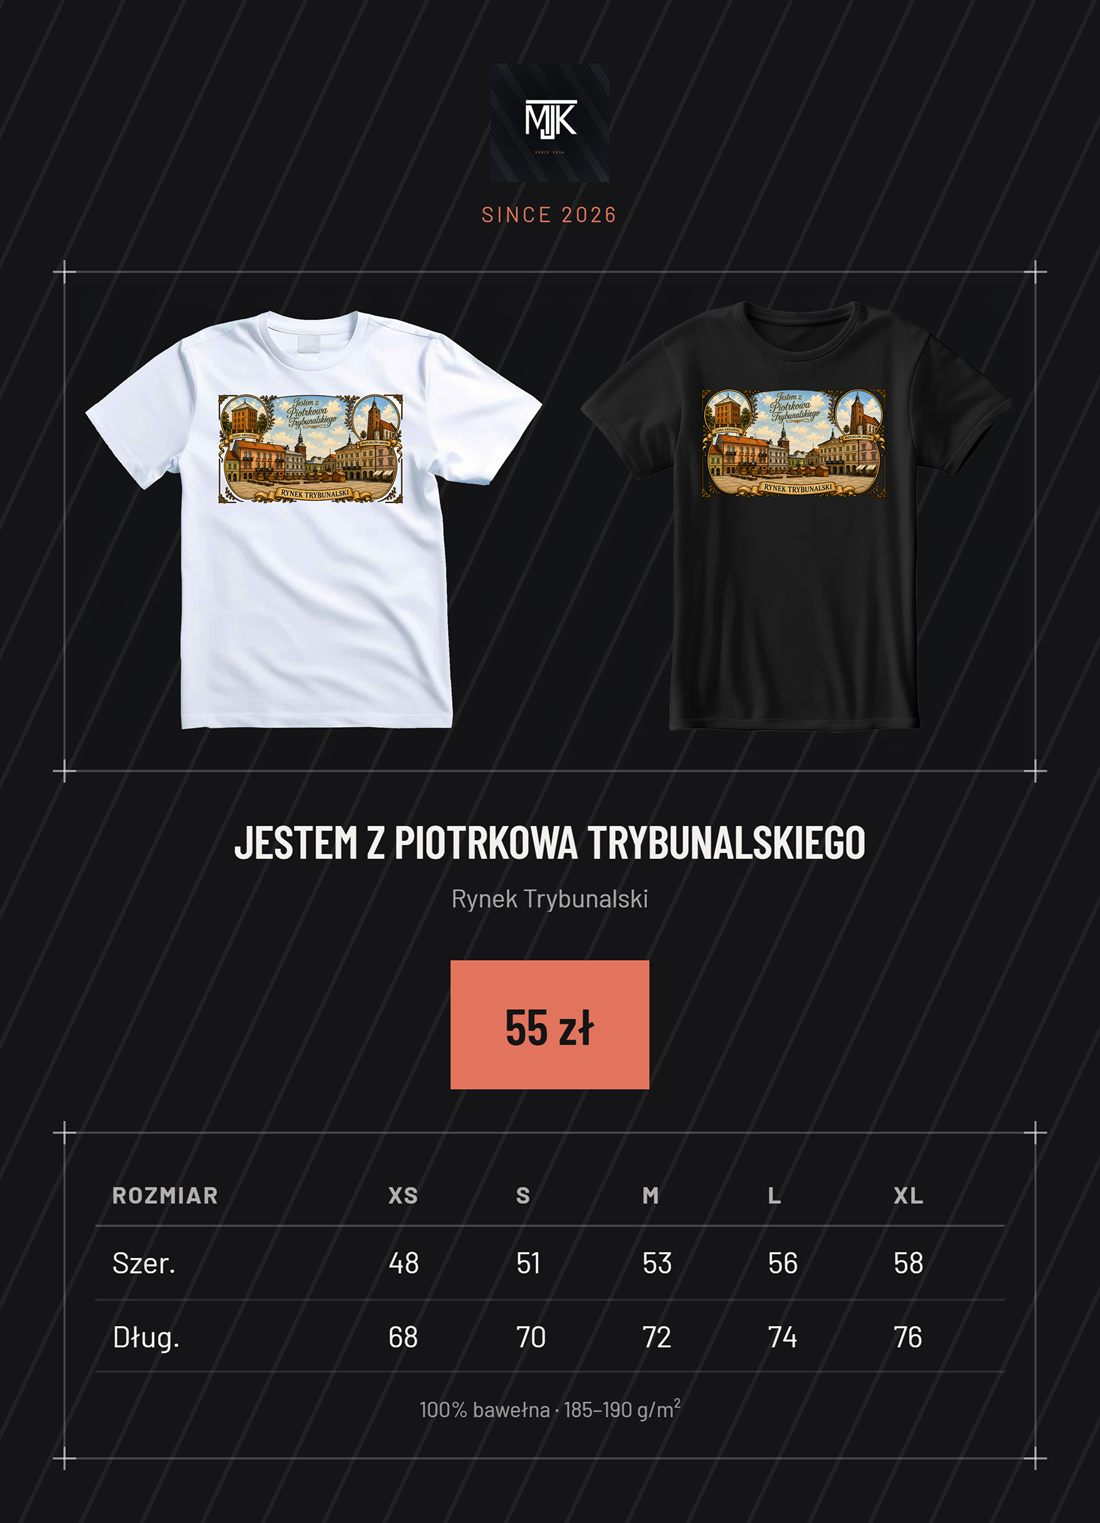
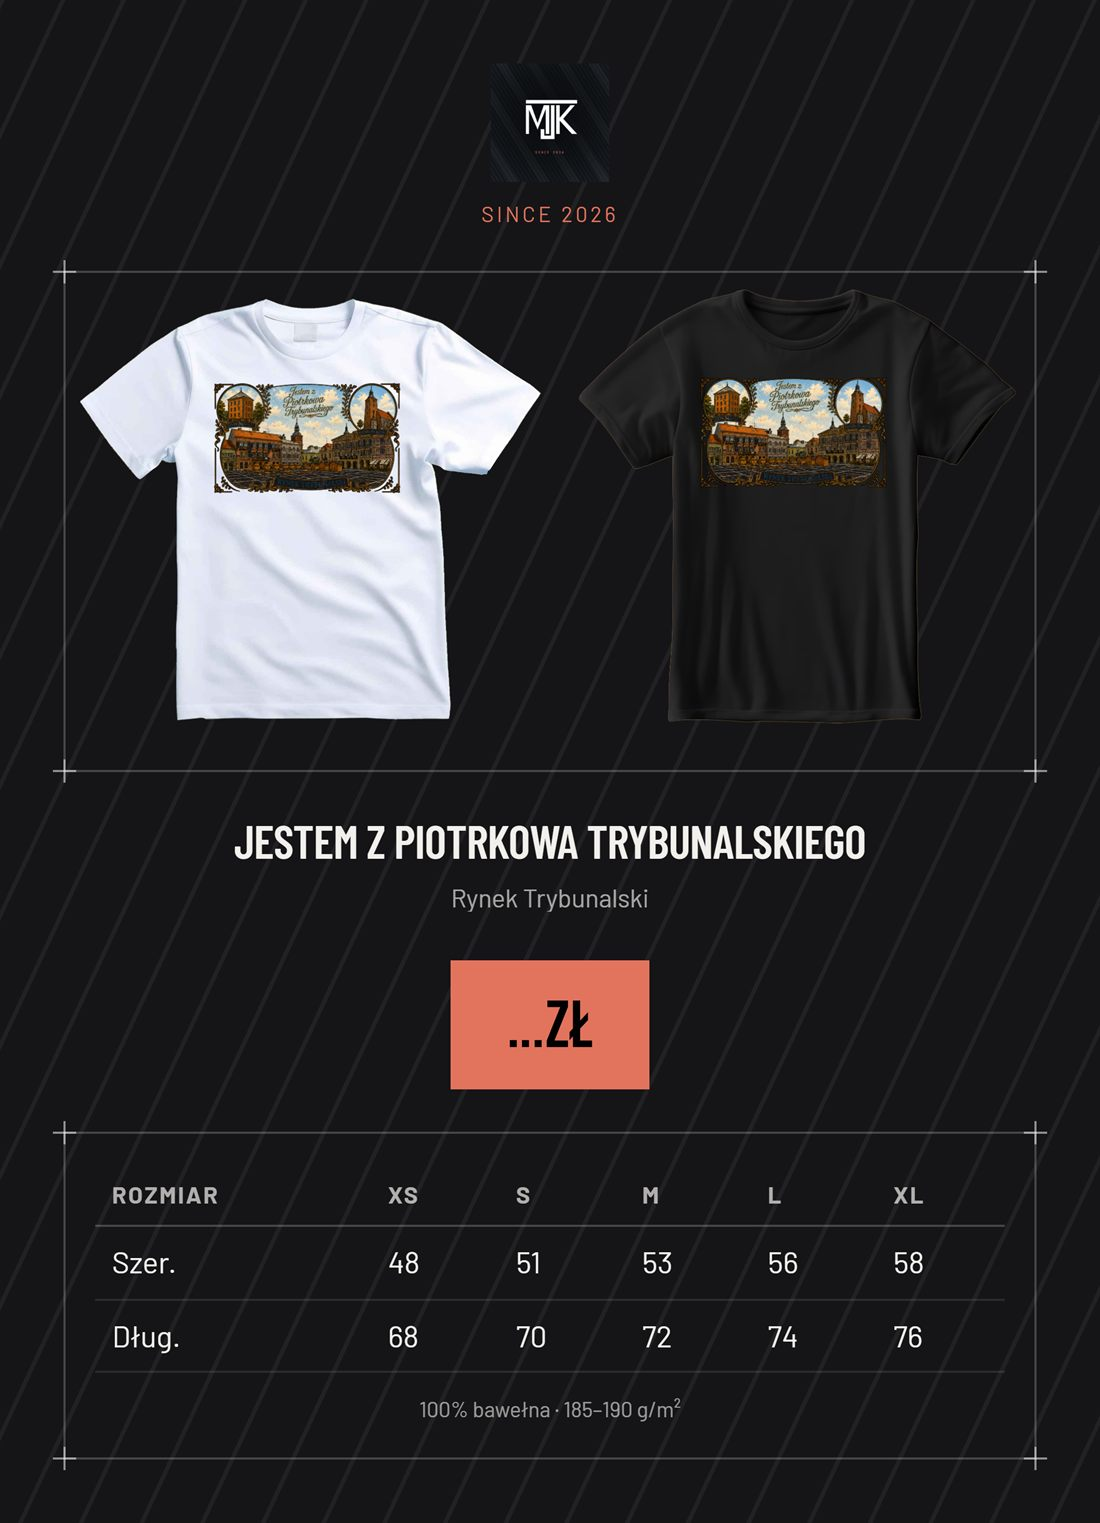
Nowa grafika oferty bez ceny + dostosowany tekst
Wlasciciel dostarczyl grafike, w ktorej zamiast kwoty jest "...ZL".
Plik podmieniony. Za tym poszly trzy miejsca w tekscie, ktore bez tego
przeczylyby obrazkowi:

- "55 zl" -> "Cena na zapytanie"
- wprowadzenie do sekcji: bylo "z konkretna cena", jest o tabeli
  rozmiarow i specyfikacji, plus zdanie ze cena zalezy od nakladu
- opis zdjecia dla czytnikow ekranu

CLAUDE.md ostrzega teraz, ze cena wystepuje w dwoch miejscach naraz -
w tekscie i wypalona w grafice - wiec zmiana jednego bez drugiego robi
sprzecznosc.

diff --git a/portfolio.html b/portfolio.html
@@ -204,20 +204,20 @@
     <div class="section-head">
       <span class="tag tag-outline">Cennik</span>
       <h2 style="margin-top: var(--space-3);">Przykładowa oferta</h2>
-      <p class="text-muted" style="margin-top: var(--space-2);">Tak wygląda gotowy produkt z mojej oferty — z konkretną ceną i tabelą rozmiarów. Zlecenia indywidualne i większe komplety wyceniam osobno.</p>
+      <p class="text-muted" style="margin-top: var(--space-2);">Tak wygląda gotowy produkt z mojej oferty — z tabelą rozmiarów i pełną specyfikacją materiału. Cenę podaję po zapytaniu, bo zależy od nakładu.</p>
     </div>
 
     <div class="grid contact-grid" style="margin-top: var(--space-6);">
       <div class="frame blueprint" style="aspect-ratio: 1100 / 1523;">
         <div class="frame-clip">
-          <img class="is-contained" src="assets/img/oferta-piotrkow.jpg" alt="Karta oferty: koszulka „Jestem z Piotrkowa Trybunalskiego”, cena 55 zł, tabela rozmiarów od XS do XL" width="1100" height="1523" loading="lazy">
+          <img class="is-contained" src="assets/img/oferta-piotrkow.jpg" alt="Karta oferty: koszulka „Jestem z Piotrkowa Trybunalskiego” w wersji białej i czarnej, tabela rozmiarów od XS do XL" width="1100" height="1523" loading="lazy">
         </div>
       </div>
 
       <div class="card blueprint">
         <div class="card-kicker">Koszulka · Rynek Trybunalski</div>
         <div class="card-title" style="font-size: 22px;">Jestem z Piotrkowa Trybunalskiego</div>
-        <p class="price">55 zł</p>
+        <p class="price">Cena na zapytanie</p>
         <p class="card-body">100% bawełna · 185–190 g/m² · nadruk DTF · wersja na białym i czarnym materiale.</p>
 
         <div class="table-wrap" style="margin-top: var(--space-3);">

diff --git a/CLAUDE.md b/CLAUDE.md
@@ -67,9 +67,16 @@ HTML/CSS. Projekt w Claude Design ma id `9c03d440-8f26-4edc-9923-aa93037bce67`
   kontakt bezpośredni — adres i telefon wprost, plus przycisk kopiowania.
   Prawdziwy formularz wymagałby pośrednika i przekazywania danych klientów
   firmie trzeciej; jeśli temat wróci, najpierw o tym powiedz.
-- Ceny i tabela rozmiarów na `portfolio.html` (55 zł, 100% bawełna, 185–190 g/m²)
-  są przepisane z materiału reklamowego właściciela `assets/img/oferta-piotrkow.jpg`.
-  Nie zmyślaj cen — jeśli coś ma się zmienić, dopytaj.
+- **Na stronie nie ma żadnej konkretnej ceny i to jest świadoma decyzja.**
+  Wcześniej w sekcji „Przykładowa oferta" stało 55 zł, ale właściciel usunął
+  kwotę z grafiki `assets/img/oferta-piotrkow.jpg` (jest tam teraz „...ZŁ"),
+  bo cena zależy od nakładu. W tekście stoi „Cena na zapytanie". Nie wstawiaj
+  żadnej kwoty bez wyraźnego polecenia — i pamiętaj, że cena jest w dwóch
+  miejscach naraz: w tekście i wypalona w grafice. Zmiana jednego bez drugiego
+  robi na stronie sprzeczność.
+- Tabela rozmiarów i specyfikacja (100% bawełna, 185–190 g/m²) są przepisane
+  z tej samej grafiki. Nie zmyślaj takich danych — jeśli coś ma się zmienić,
+  dopytaj.
 
 ## Deployment
 
